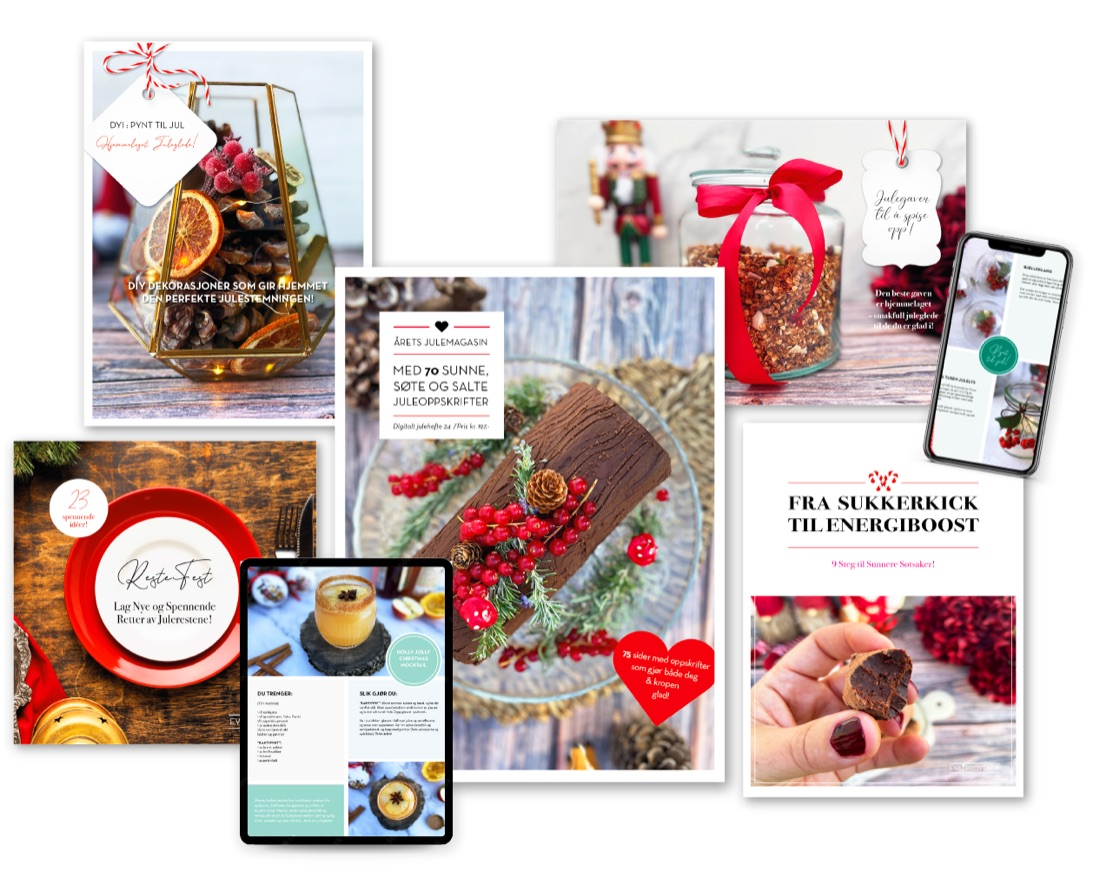
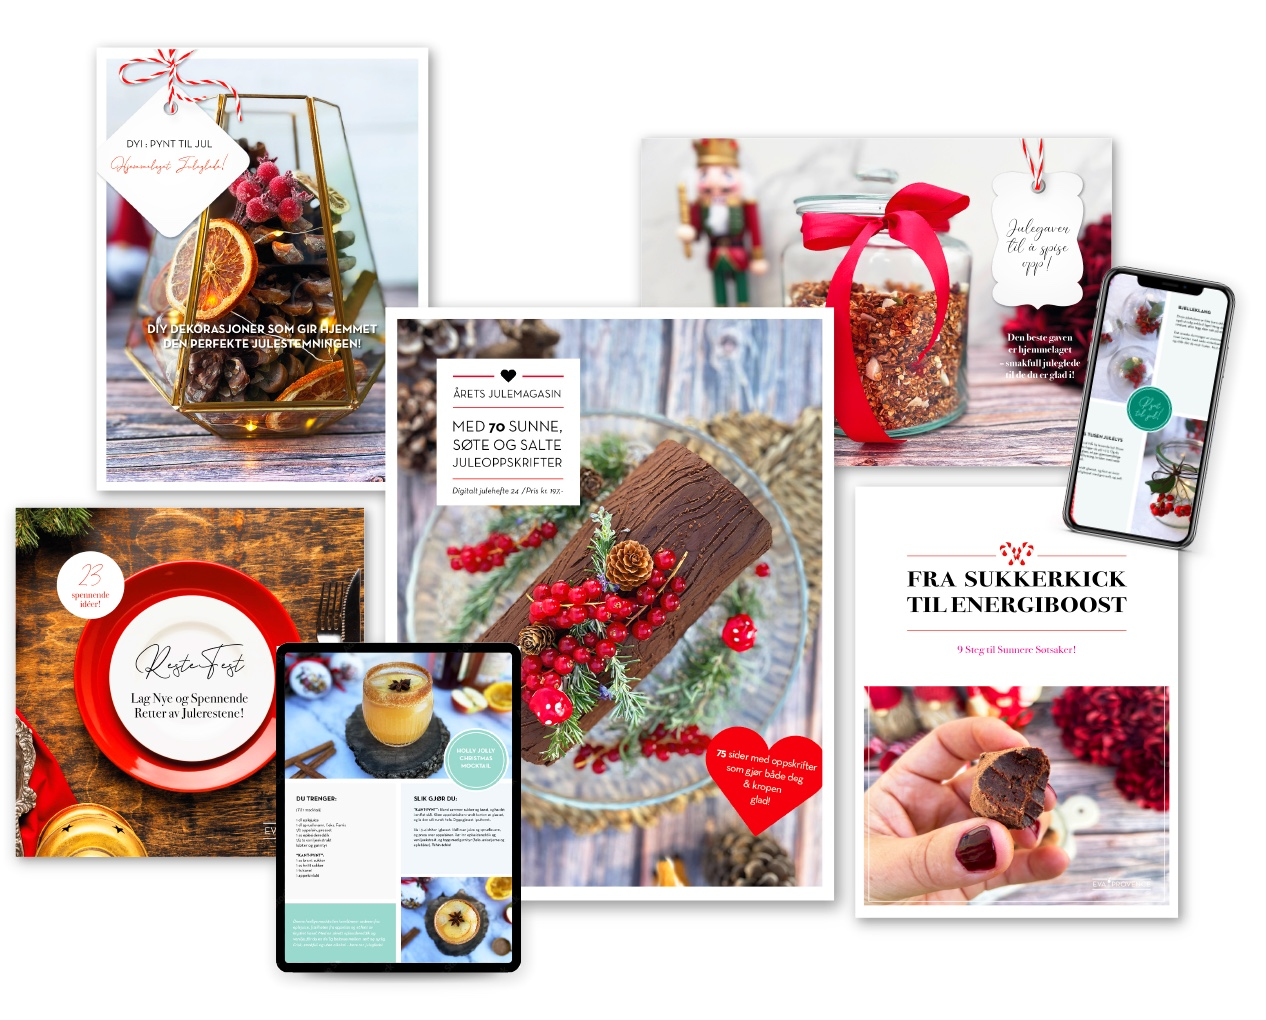
Fix stretched gift mockup and Eva photo crop

Changed region(s): [[0.3709, 0.3962, 0.4327, 0.4571], [0.8036, 0.579, 0.8345, 0.6095], [0.1855, 0.3047, 0.2164, 0.3352]]

diff --git a/pages/julegaven.html b/pages/julegaven.html
@@ -31,7 +31,7 @@
 html{-webkit-text-size-adjust:100%;scroll-behavior:smooth}
 html,body{max-width:100%;overflow-x:hidden}
 body{margin:0;background:var(--cream);color:var(--ink);font-family:var(--sans);font-size:17px;line-height:1.6;-webkit-font-smoothing:antialiased}
-img{max-width:100%;display:block}
+img{max-width:100%;height:auto;display:block}
 a{color:inherit}
 [hidden]{display:none!important}
 :focus-visible{outline:3px solid var(--gold);outline-offset:3px;border-radius:6px}
@@ -118,6 +118,7 @@ p{margin:0 0 1em}
 /* photo frames */
 .photo{border-radius:var(--r-lg);overflow:hidden;box-shadow:var(--shadow);background:var(--linen)}
 .photo img{width:100%;height:100%;object-fit:cover}
+.photo img.eva-left{object-position:8% 40%}
 .polaroid{background:var(--white);padding:10px 10px 38px;border-radius:6px;box-shadow:var(--shadow);position:relative;margin:0}
 .polaroid img{width:100%;aspect-ratio:1/1;object-fit:cover;border-radius:3px}
 .polaroid figcaption{position:absolute;left:0;right:0;bottom:6px;text-align:center;font-family:var(--script);font-size:1.6rem;color:var(--red);line-height:1}
@@ -217,7 +218,7 @@ footer.site .logo{color:var(--on-dark);display:block;margin-bottom:8px}
       <a class="btn gold" href="#gaver" data-state-show="unlocked">Til gavene dine →</a>
     </div>
     <div class="pack-card">
-      <img src="img/julegaven-pakke.jpg" alt="Julegaven fra Provence: julemagasin, e-bøker og menyer" width="1100" height="886">
+      <img src="img/julegaven-pakke.jpg" alt="Julegaven fra Provence: julemagasin, e-bøker og menyer" width="1266" height="1020">
       <div class="seal"><span>Verdi</span><b>997 kr</b><span>din gave</span></div>
       <svg class="bow" viewBox="0 0 100 100" aria-hidden="true"><path d="M50 50C30 20 8 28 14 46c4 12 22 10 36 4z" fill="#C49A3E"/><path d="M50 50C70 20 92 28 86 46c-4 12-22 10-36 4z" fill="#C49A3E"/><path d="M48 52l-14 40 10-4 6 8 6-44z" fill="#A9822F"/><path d="M52 52l14 40-10-4-6 8 6-44z" fill="#B98F36"/><circle cx="50" cy="50" r="8" fill="#E3C77E"/></svg>
     </div>

diff --git a/pages/video.html b/pages/video.html
@@ -32,7 +32,7 @@
 html{-webkit-text-size-adjust:100%;scroll-behavior:smooth}
 html,body{max-width:100%;overflow-x:hidden}
 body{margin:0;background:var(--cream);color:var(--ink);font-family:var(--sans);font-size:17px;line-height:1.6;-webkit-font-smoothing:antialiased}
-img{max-width:100%;display:block}
+img{max-width:100%;height:auto;display:block}
 a{color:inherit}
 [hidden]{display:none!important}
 :focus-visible{outline:3px solid var(--gold);outline-offset:3px;border-radius:6px}
@@ -119,6 +119,7 @@ p{margin:0 0 1em}
 /* photo frames */
 .photo{border-radius:var(--r-lg);overflow:hidden;box-shadow:var(--shadow);background:var(--linen)}
 .photo img{width:100%;height:100%;object-fit:cover}
+.photo img.eva-left{object-position:8% 40%}
 .polaroid{background:var(--white);padding:10px 10px 38px;border-radius:6px;box-shadow:var(--shadow);position:relative;margin:0}
 .polaroid img{width:100%;aspect-ratio:1/1;object-fit:cover;border-radius:3px}
 .polaroid figcaption{position:absolute;left:0;right:0;bottom:6px;text-align:center;font-family:var(--script);font-size:1.6rem;color:var(--red);line-height:1}
@@ -316,7 +317,7 @@ footer.site .logo{color:var(--on-dark);display:block;margin-bottom:8px}
 
   <section class="sec paper">
     <div class="wrap mm">
-      <div class="photo"><img src="img/eva-marked.jpg" alt="Eva handler på markedet i Provence" loading="lazy"></div>
+      <div class="photo"><img class="eva-left" src="img/eva-marked.jpg" alt="Eva handler på markedet i Provence" loading="lazy"></div>
       <div>
         <p class="eyebrow">Hva er MiddelhavsMagi?</p>
         <h2 style="color:var(--green)">Ikke en diett. Ikke en streng meny.</h2>

diff --git a/pages/registrering.html b/pages/registrering.html
@@ -32,7 +32,7 @@
 html{-webkit-text-size-adjust:100%;scroll-behavior:smooth}
 html,body{max-width:100%;overflow-x:hidden}
 body{margin:0;background:var(--cream);color:var(--ink);font-family:var(--sans);font-size:17px;line-height:1.6;-webkit-font-smoothing:antialiased}
-img{max-width:100%;display:block}
+img{max-width:100%;height:auto;display:block}
 a{color:inherit}
 [hidden]{display:none!important}
 :focus-visible{outline:3px solid var(--gold);outline-offset:3px;border-radius:6px}
@@ -119,6 +119,7 @@ p{margin:0 0 1em}
 /* photo frames */
 .photo{border-radius:var(--r-lg);overflow:hidden;box-shadow:var(--shadow);background:var(--linen)}
 .photo img{width:100%;height:100%;object-fit:cover}
+.photo img.eva-left{object-position:8% 40%}
 .polaroid{background:var(--white);padding:10px 10px 38px;border-radius:6px;box-shadow:var(--shadow);position:relative;margin:0}
 .polaroid img{width:100%;aspect-ratio:1/1;object-fit:cover;border-radius:3px}
 .polaroid figcaption{position:absolute;left:0;right:0;bottom:6px;text-align:center;font-family:var(--script);font-size:1.6rem;color:var(--red);line-height:1}
@@ -278,7 +279,7 @@ footer.site .logo{color:var(--on-dark);display:block;margin-bottom:8px}
 
   <section class="sec linen">
     <div class="wrap about">
-      <div class="photo"><img src="img/eva-marked.jpg" alt="Eva på markedet i Provence med kurv og blomster" loading="lazy"></div>
+      <div class="photo"><img class="eva-left" src="img/eva-marked.jpg" alt="Eva på markedet i Provence med kurv og blomster" loading="lazy"></div>
       <div>
         <p class="eyebrow">Om Eva</p>
         <h2 style="color:var(--green)">Bonjour fra Provence</h2>

diff --git a/pages/takk.html b/pages/takk.html
@@ -29,7 +29,7 @@
 html{-webkit-text-size-adjust:100%;scroll-behavior:smooth}
 html,body{max-width:100%;overflow-x:hidden}
 body{margin:0;background:var(--cream);color:var(--ink);font-family:var(--sans);font-size:17px;line-height:1.6;-webkit-font-smoothing:antialiased}
-img{max-width:100%;display:block}
+img{max-width:100%;height:auto;display:block}
 a{color:inherit}
 [hidden]{display:none!important}
 :focus-visible{outline:3px solid var(--gold);outline-offset:3px;border-radius:6px}
@@ -116,6 +116,7 @@ p{margin:0 0 1em}
 /* photo frames */
 .photo{border-radius:var(--r-lg);overflow:hidden;box-shadow:var(--shadow);background:var(--linen)}
 .photo img{width:100%;height:100%;object-fit:cover}
+.photo img.eva-left{object-position:8% 40%}
 .polaroid{background:var(--white);padding:10px 10px 38px;border-radius:6px;box-shadow:var(--shadow);position:relative;margin:0}
 .polaroid img{width:100%;aspect-ratio:1/1;object-fit:cover;border-radius:3px}
 .polaroid figcaption{position:absolute;left:0;right:0;bottom:6px;text-align:center;font-family:var(--script);font-size:1.6rem;color:var(--red);line-height:1}
